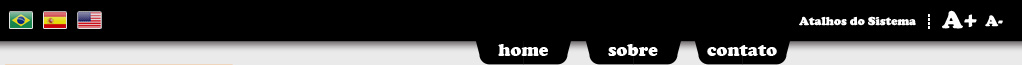
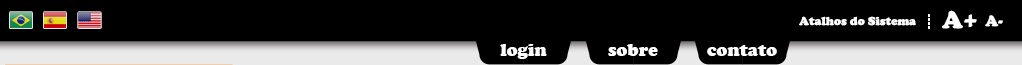
alteração tela de login e botoes de ação das listagens

diff --git a/public/css/tabela.css b/public/css/tabela.css
@@ -31,6 +31,15 @@
   background-color: white;
 }
 
+#createproject .tbl th:last-child {
+ text-align: center;
+}
+
+#createproject .tbl td:last-child {
+ text-align: center;
+}
+
+
 .tbl tr.odd {
   background-color: #eaeaea;
 }
